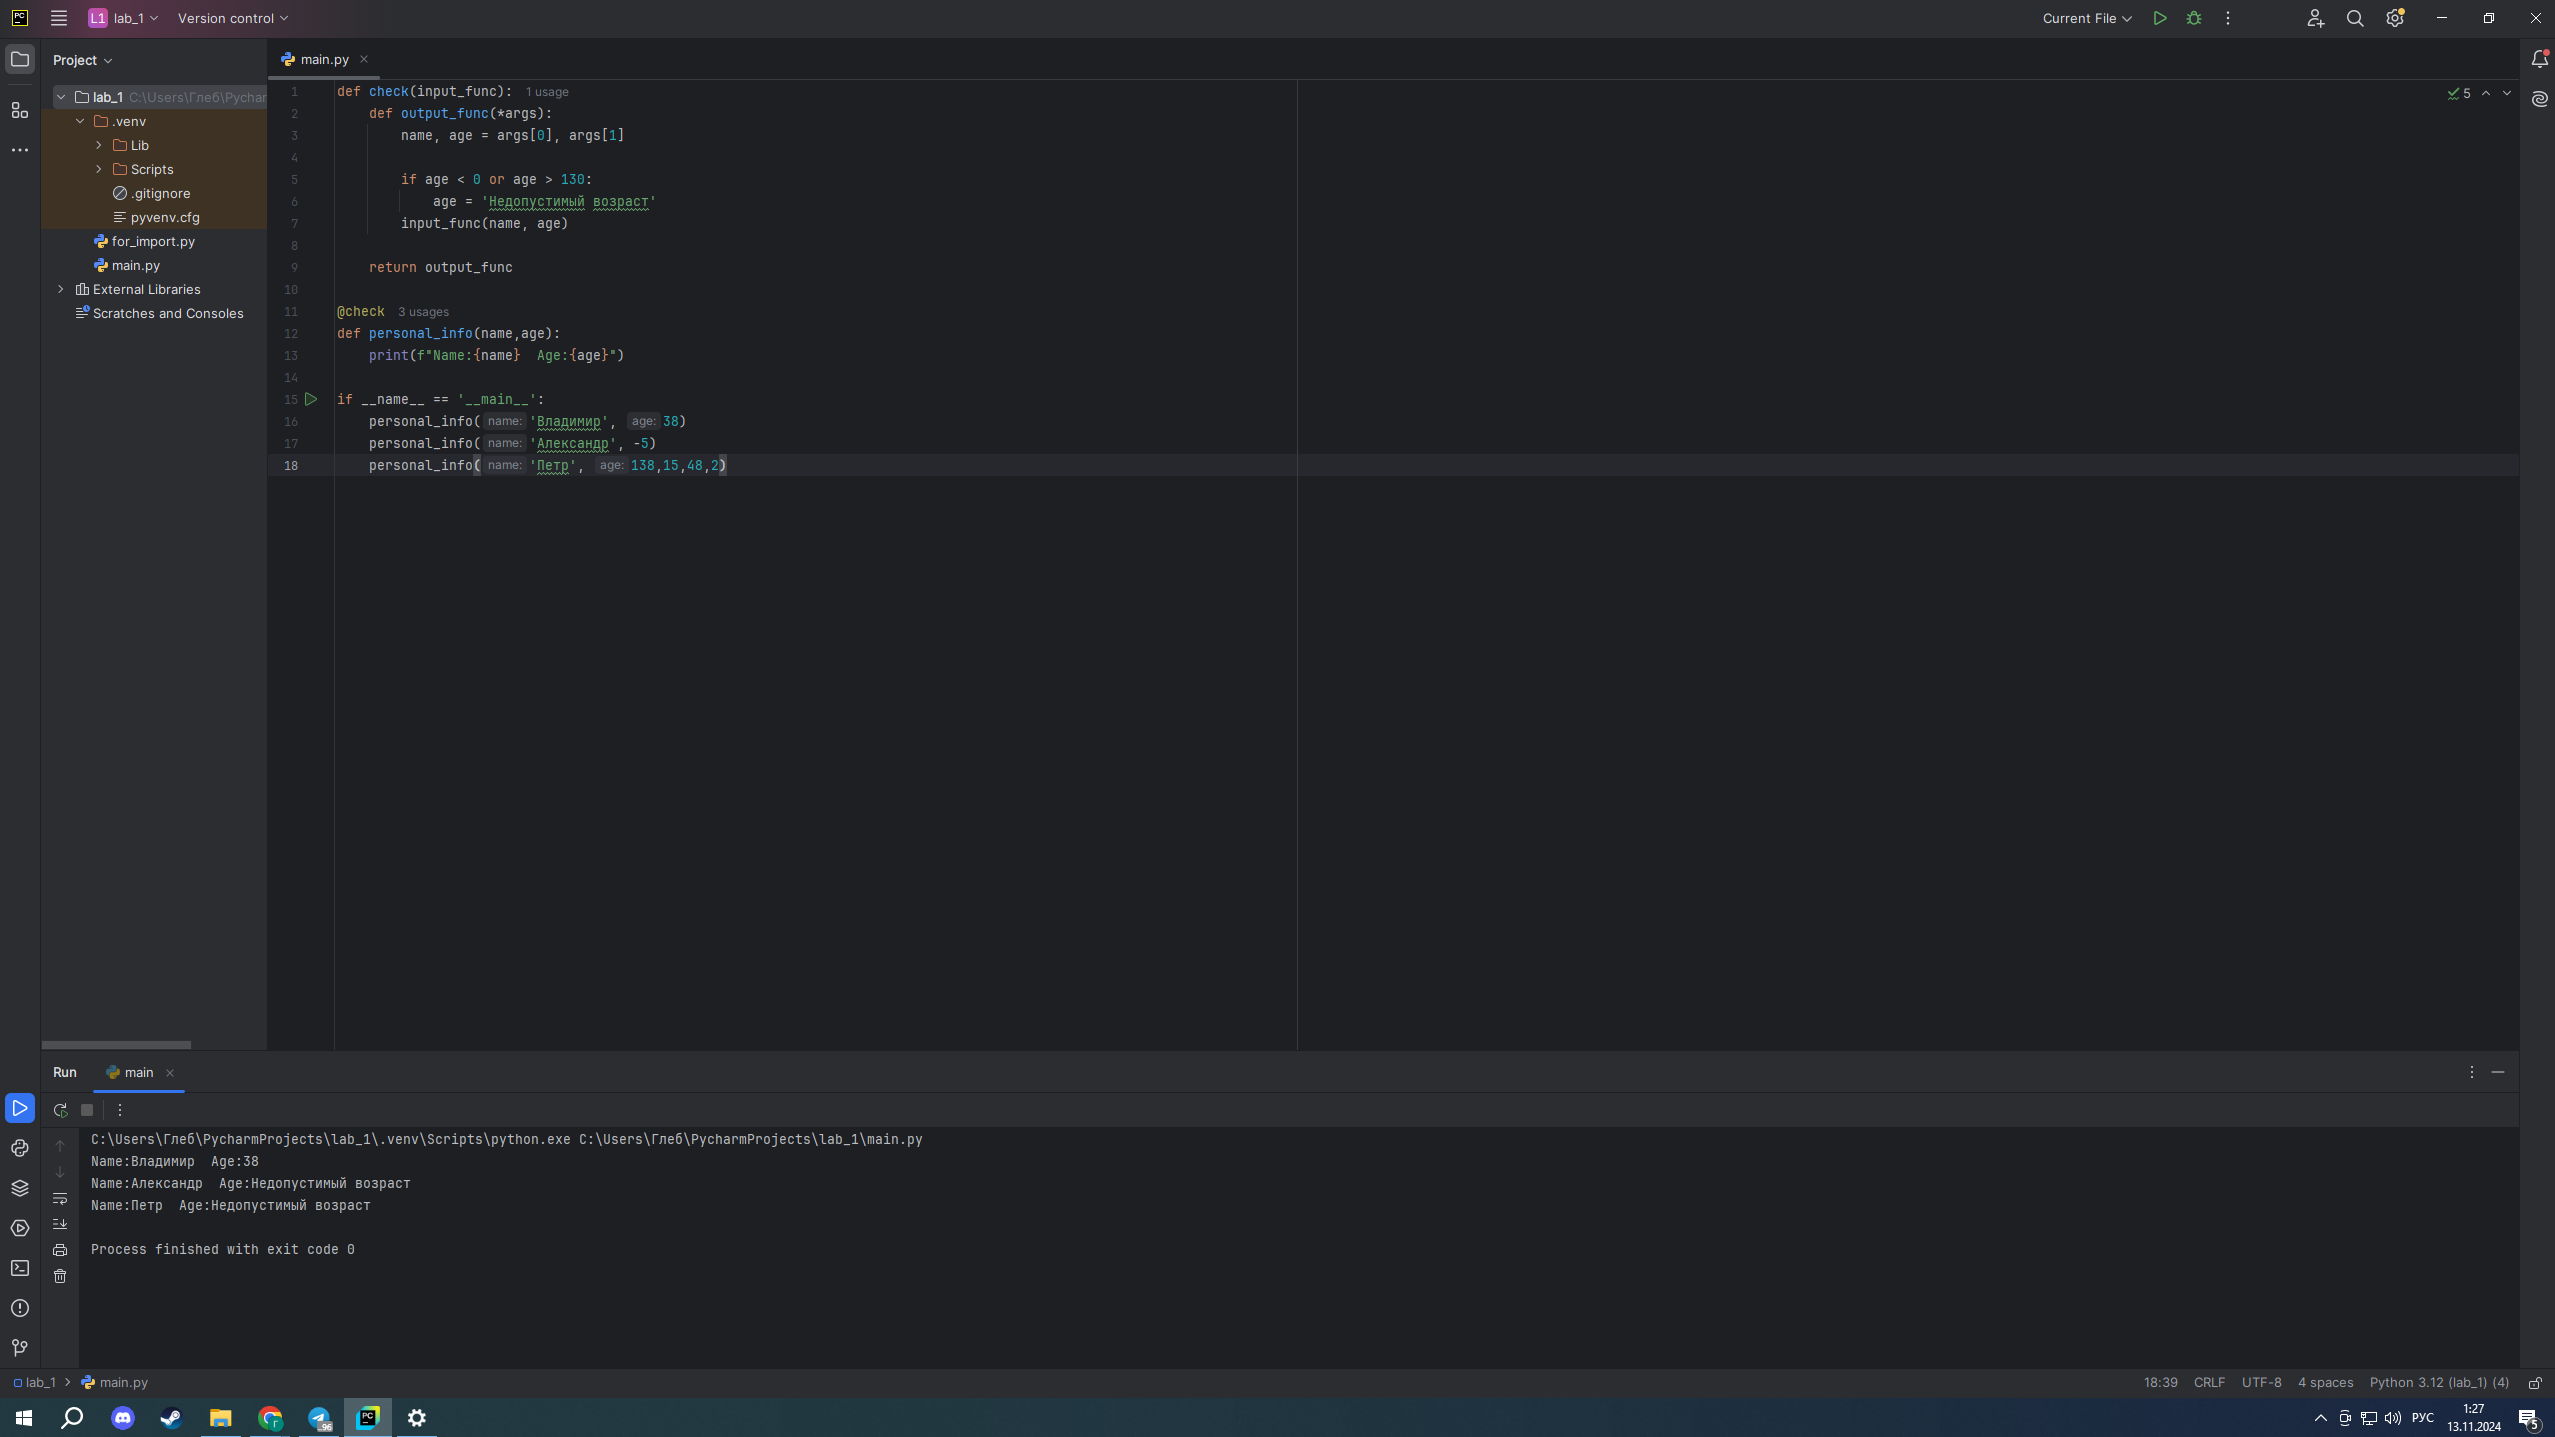
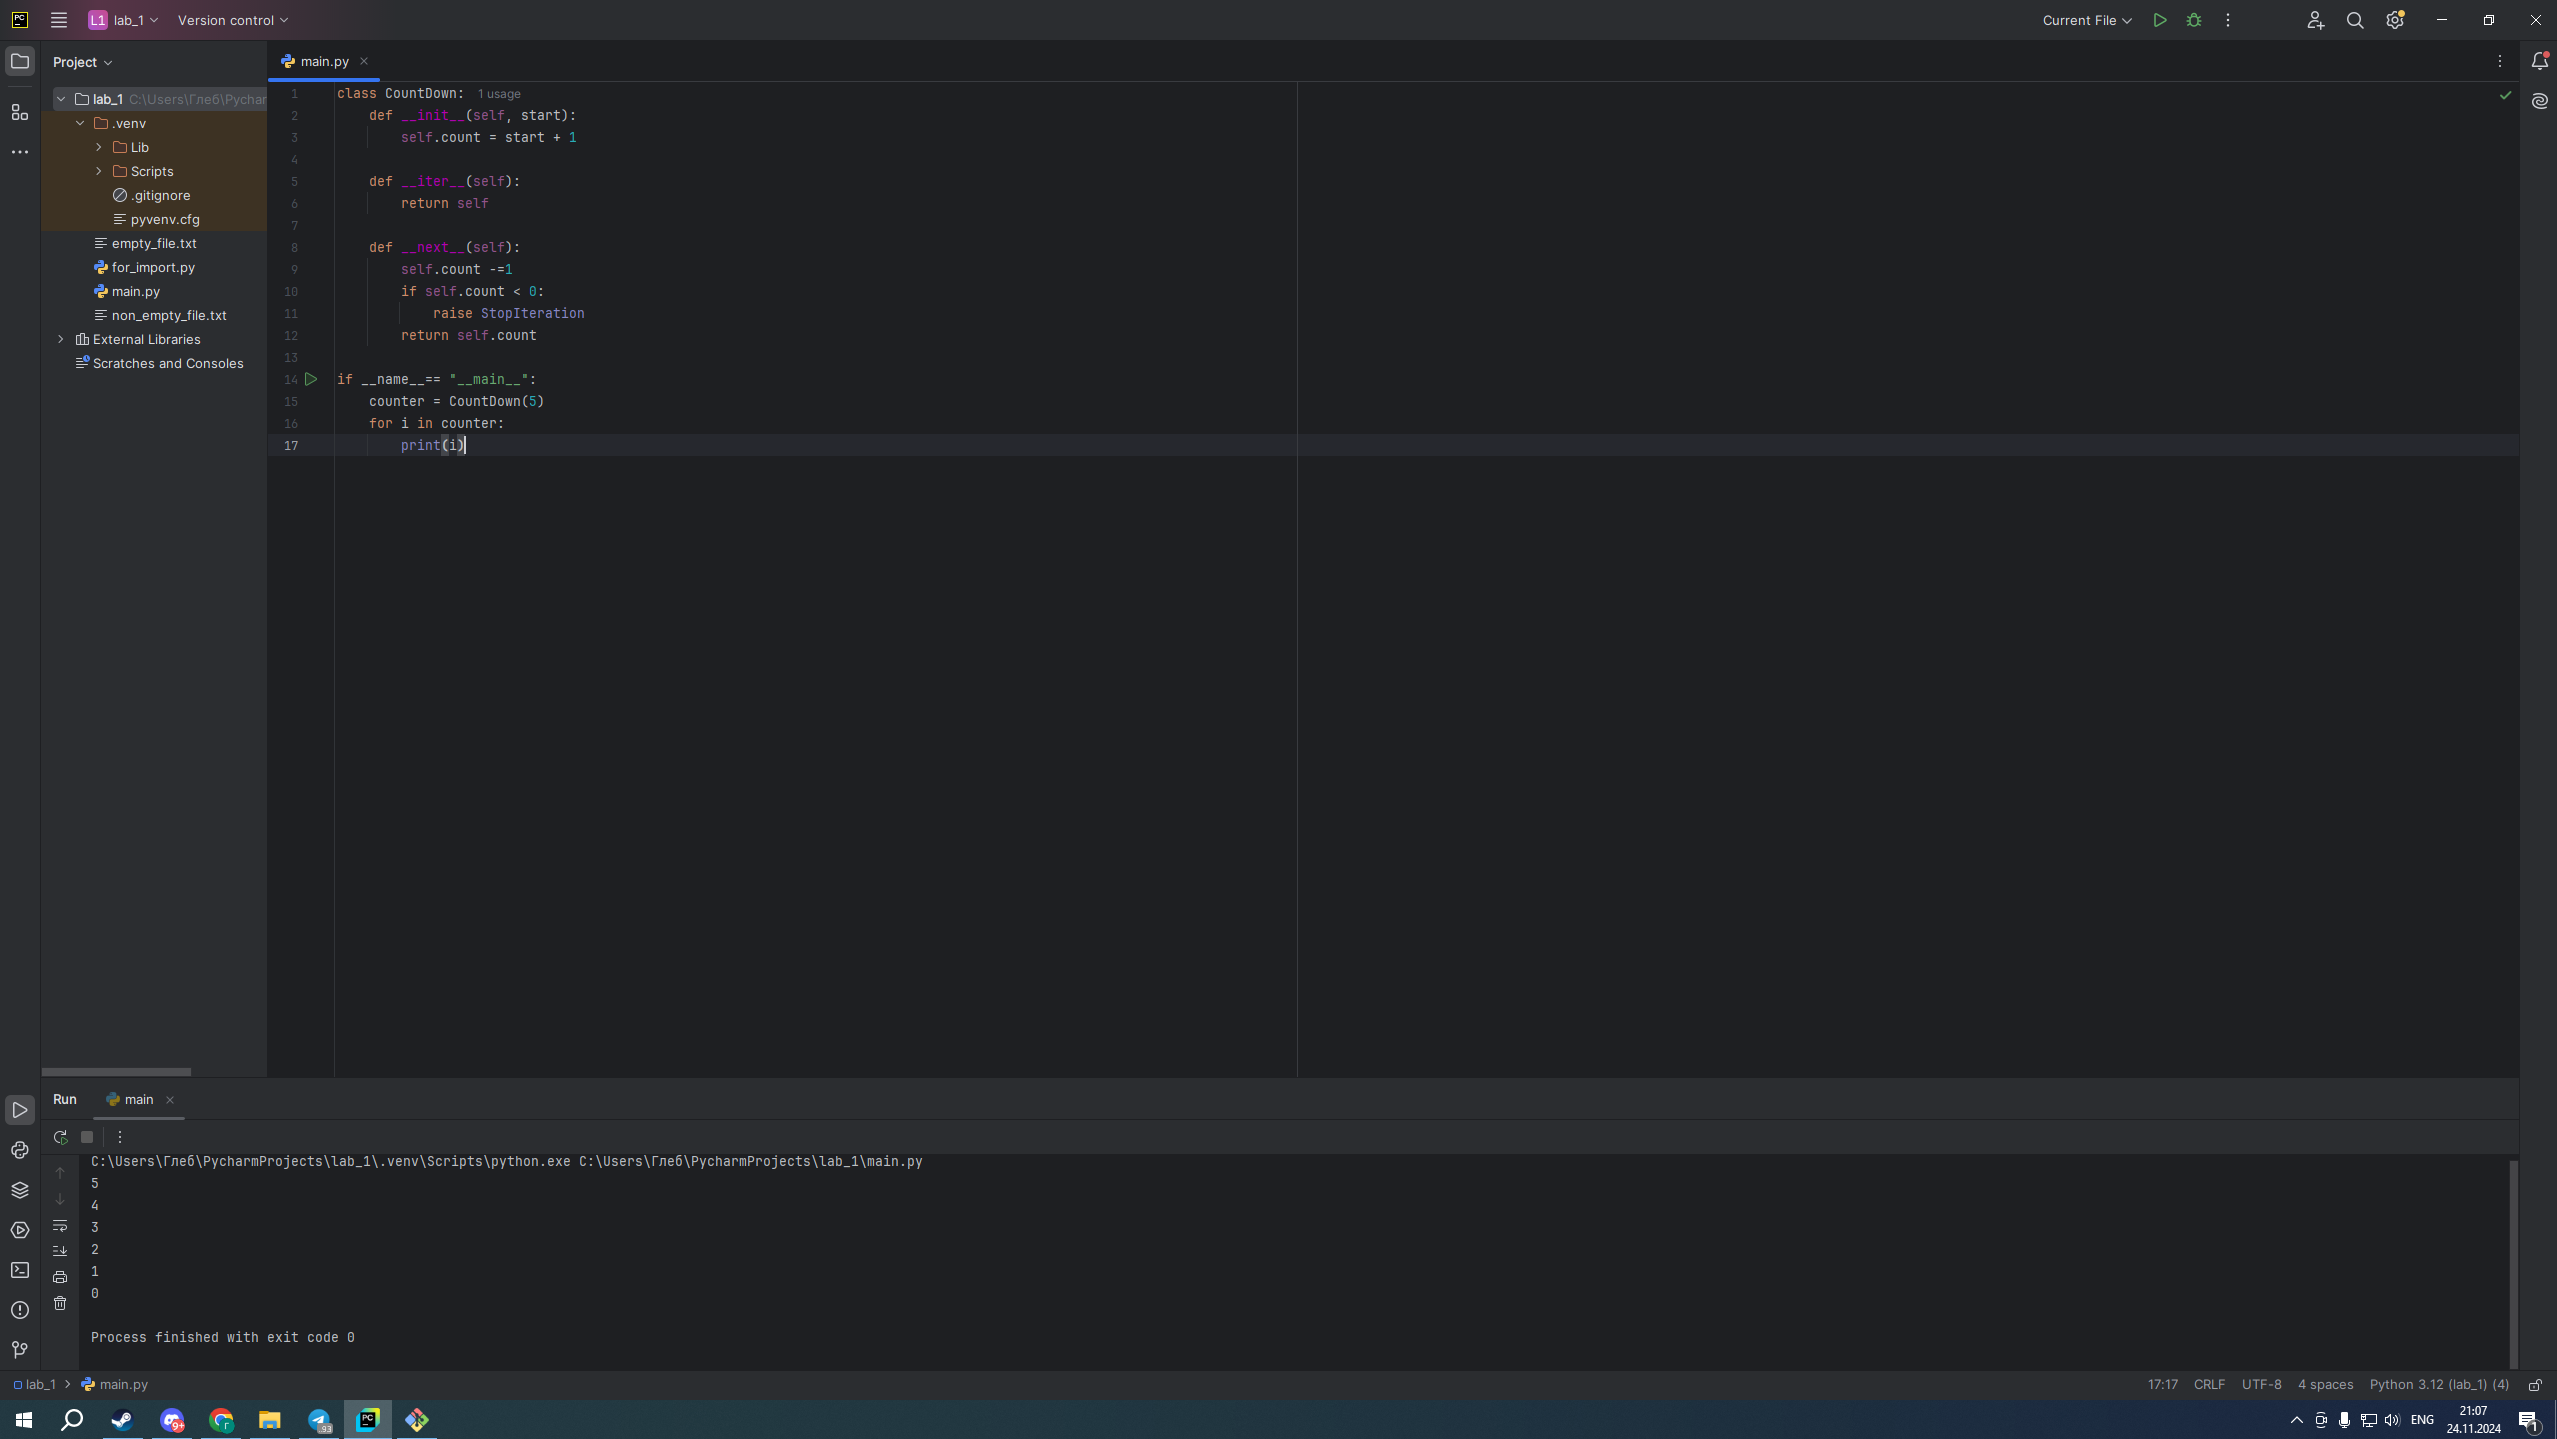
123

diff --git a/Sam2.py b/Sam2.py
@@ -1,22 +1,10 @@
-def read_file(filename):
-    try:
-        with open(filename, 'r', encoding='utf-8') as file:
-            data = file.read()
-            if not data:
-                raise Exception("В этом файле ничего нет")
-            else:
-                print(data)
-    except FileNotFoundError:
-        print("Файл не найден")
-    except Exception as e:
-        print(e)
+def fib(n):
+    a, b = 1, 1
+    with open("fib.txt", "w") as f:
+        for _ in range(n):
+            f.write(str(a) + "\n")
+            yield a
+            a, b = b, a + b
 
-if __name__ == '__main__':
-    empty_file = "empty_file.txt"
-    non_empty_file = "non_empty_file.txt"
-
-    print("Считывание пустого файла:")
-    read_file(empty_file)
-
-    print("\nСчитывание не пустого файла:")
-    read_file(non_empty_file)
+fibonacci_numbers = list(fib(200))
+print(fibonacci_numbers[-1])

diff --git a/Lab2.py b/Lab2.py
@@ -1,18 +1,17 @@
-def check(input_func):
-    def output_func(*args):
-        name, age = args[0], args[1]
+class CountDown:
+    def __init__(self, start):
+        self.count = start + 1
 
-        if age < 0 or age > 130:
-            age = 'Недопустимый возраст'
-        input_func(name, age)
+    def __iter__(self):
+        return self
 
-    return output_func
+    def __next__(self):
+        self.count -=1
+        if self.count < 0:
+            raise StopIteration
+        return self.count
 
-@check
-def personal_info(name,age):
-    print(f"Name:{name}  Age:{age}")
-
-if __name__ == '__main__':
-    personal_info('Владимир', 38)
-    personal_info('Александр', -5)
-    personal_info('Петр', 138,15,48,2)
+if __name__== "__main__":
+    counter = CountDown(5)
+    for i in counter:
+        print(i)

diff --git a/Lab5.py b/Lab5.py
@@ -1,18 +1,9 @@
-class SiteChecker:
-    def __init__(self, func):
-        print('> Класс SiteChecker метод __init__ успешный запуск')
-        self.func = func
+def countdown(count):
+    while count>=0:
+        yield count
+        count -=1
 
-    def __call__(self):
-        print('> Проверка перед запуском', self.func.__name__)
-        self.func()
-        print('>Проверка безопасного выключения')
-
-@SiteChecker
-def site():
-    print('Усердная работа сайта')
-
-if __name__ == '__main__':
-    print('>>Сайт запущен')
-    site()
-    print('>> Сайт выключен')
+if __name__== '__main__':
+    counter = countdown(5)
+    for i in counter:
+        print(i)

diff --git a/Sam1.py b/Sam1.py
@@ -1,20 +1,8 @@
-import time
+def fib(n):
+    a, b = 1, 1
+    for _ in range(n):
+        yield a
+        a, b = b, a + b
 
-def calculate_time(func):
-    def wrapper(*args, **kwargs):
-        start_time = time.time()
-        result = func(*args, **kwargs)
-        end_time = time.time()
-        print(f" Function {func.__name__} took {end_time - start_time} seconds to execute")
-        return result
-    return wrapper
-
-@calculate_time
-def fibonacci():
-    fib1 = fib2 = 1
-    for i in range(2, 200):
-        fib1, fib2 = fib2, fib1 + fib2
-        print(fib2, end='')
-
-if __name__ == '__main__':
-    fibonacci()
+fibonacci_numbers = list(fib(200))
+print(fibonacci_numbers[-1])

diff --git a/Lab3.py b/Lab3.py
@@ -1,15 +1,9 @@
-def data(*args):
-    try:
-        for i in range(len(*args)):
-            try:
-                result = (args[0][i] *15)//10
-                print(result)
-            except Exception as ex:
-                print(ex)
-    except Exception as ex:
-        print(ex)
-    finally:
-        print('Вся информация обработана')
+a = [i**2 for i in range(1,5)]
 
-if __name__ == '__main__':
-    data([1,15, 'Hello', 'i', 'try', 'to', 'crash', 'your','site', 38, 45])
+print('a-', a)
+for i in a:
+    print(i)
+
+print('iter(a) -', iter(a))
+for i in a:
+    print(i)

diff --git a/Lab4.py b/Lab4.py
@@ -1,12 +1,9 @@
-class NegativeValueException(Exception):
-    pass
+b = (i**2 for i in range(1,5))
+print(b)
+print('first')
+for i in b:
+    print(i)
+print('second')
 
-def check_name(name):
-    if len(name)>10:
-        raise NegativeValueException('Длина более 10 символов')
-    else:
-        print('Успешная регистрация')
-
-if __name__ == '__main__':
-    name = 'Глеб'
-    check_name(name)
+for i in b:
+    print(i)

diff --git a/Lab1.py b/Lab1.py
@@ -1,12 +1,3 @@
-from functools import lru_cache
-
-@lru_cache(None)
-def fiboonacci(n):
-    if n ==0:
-        return 0
-    elif n == 1:
-        return 1
-    return fiboonacci(n-1) + fiboonacci(n-2)
-
-if __name__ == '__main__':
-    print(fiboonacci(100))
+numbers = [0, 1, 2, 3, 4, 5]
+for item in numbers:
+    print(item)
